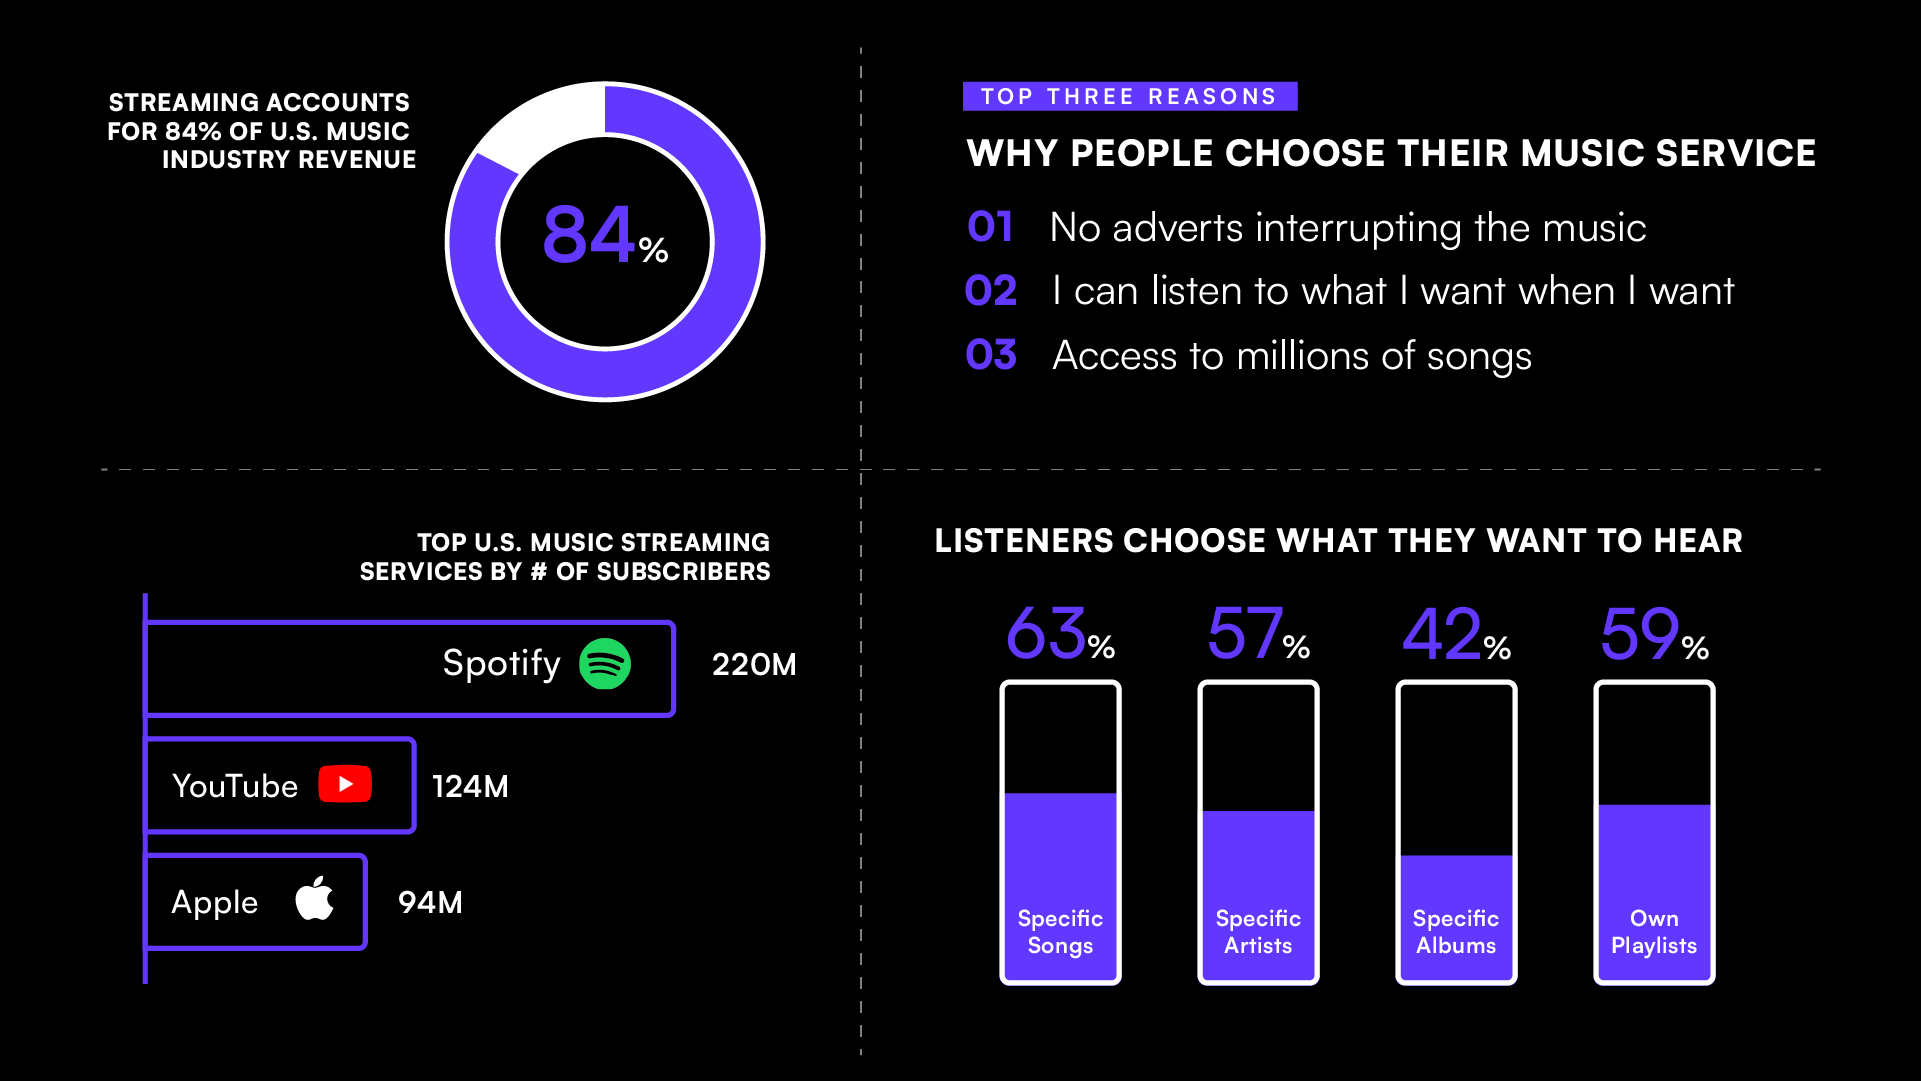
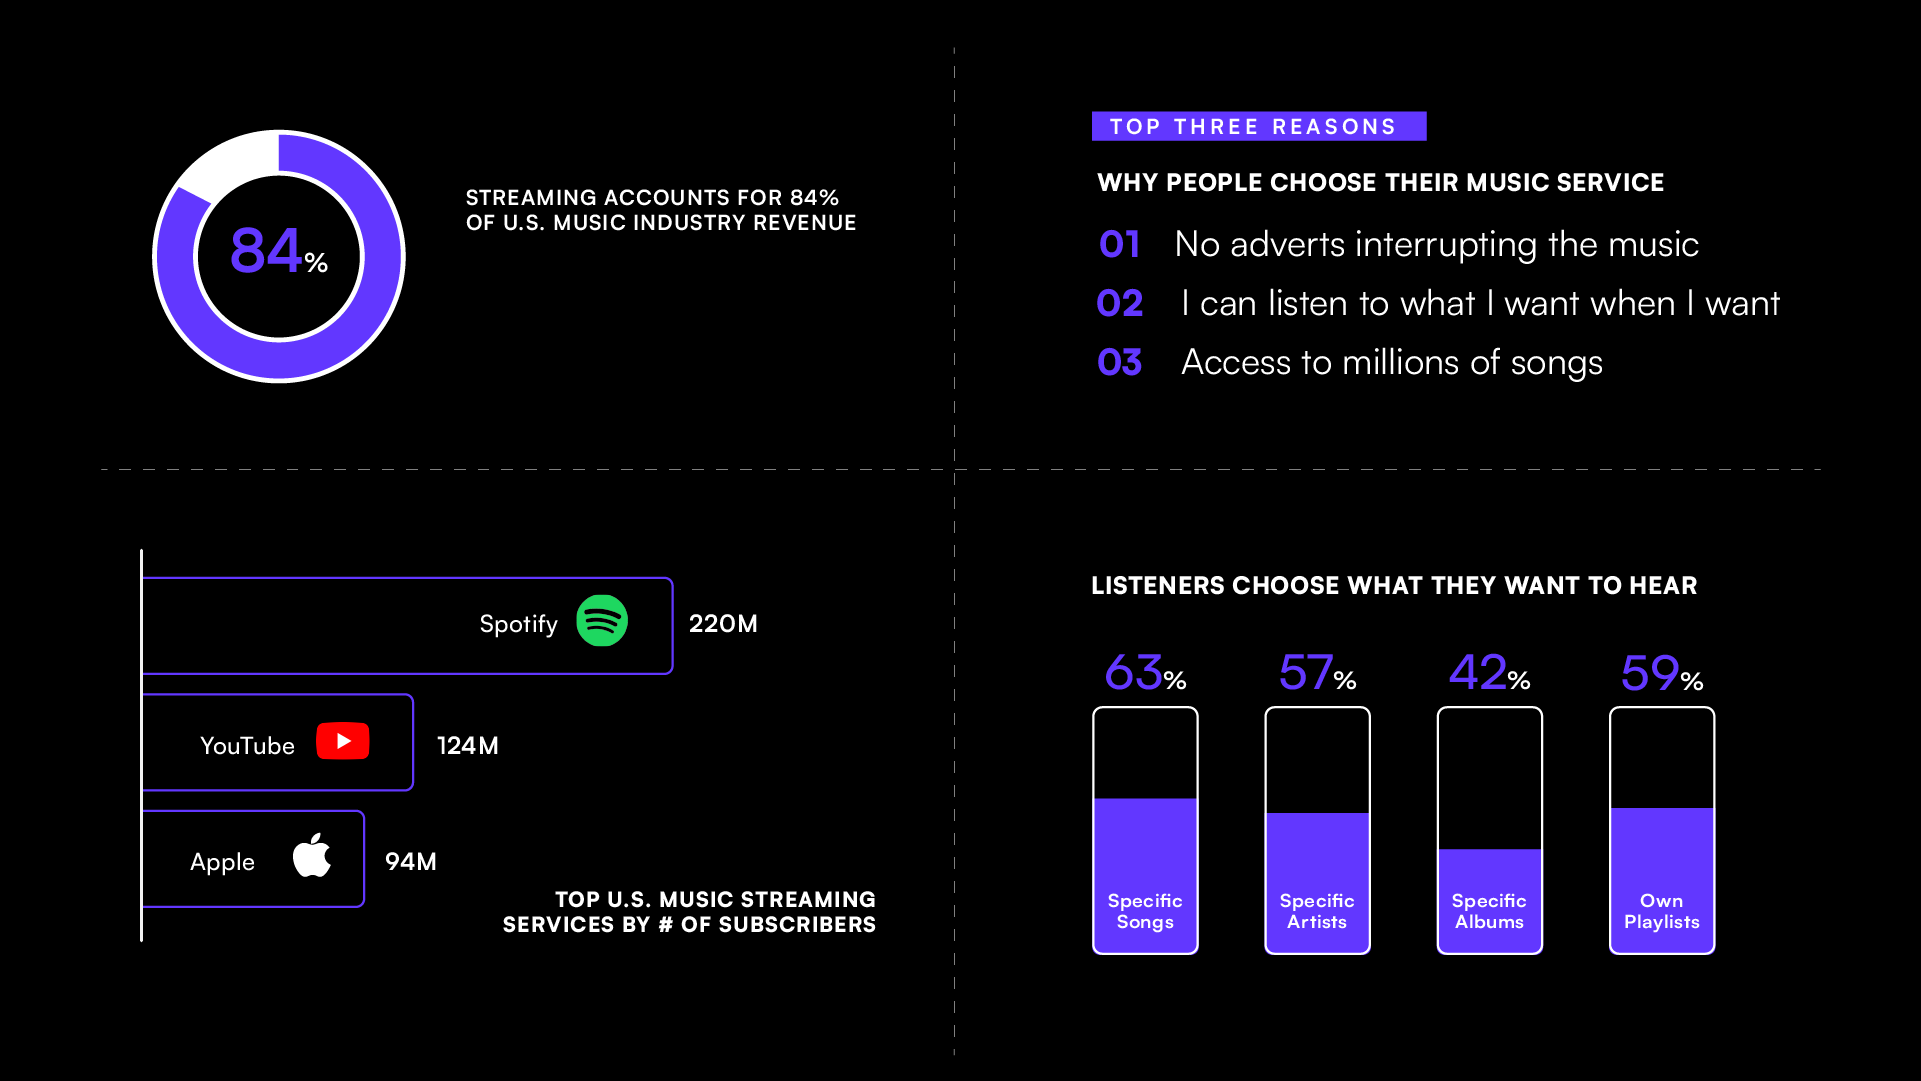
sticky scrolling effect added to home

diff --git a/src/components/StickyProject.jsx b/src/components/StickyProject.jsx
@@ -1,0 +1,221 @@
+/* eslint-disable no-unused-vars */
+/* eslint-disable react/prop-types */
+
+import { useState, useRef, useEffect } from 'react';
+import { Button } from '../components/Button';
+import { Image } from '../components/image';
+import {
+    ProjectSection,
+    ProjectSectionColumns,
+    ProjectSectionContent,
+    ProjectSectionHeading,
+    ProjectPageText,
+    ProjectTextRow,
+} from './Project-Layout.jsx';
+import { baseMeta, media } from '../lib/utils';
+
+// Background Imports
+import budBack from '../assets/budHeroBack_lg.png';
+import ultraBack from '../assets/ultraHeroBack_lg.png';
+import blsBack from '../assets/blsHeroBack_lg.png';
+import khBack from '../assets/khHeroBack_lg.png';
+import qBack from '../assets/qBackLarge.png';
+
+// Placeholder Imports
+import budImg from '../assets/bud/bud_king.png';
+import ultraImg from '../assets/mulBackground.png';
+import blsImg from '../assets/blsPlace.png';
+import khImg from '../assets/khBackground.png';
+
+// Video Imports
+import budVid from '../assets/bud/BeAKing-Teaser.mp4';
+import khVid from '../assets/khc/KHDR_Exp.mp4';
+import qVideo from '../assets/queue/Q_V2.mp4';
+
+const linkLabel = 'View Project';
+
+const heading = 'Featured Projects';
+const description =
+    'Five featured projects including: Queue Mobile App, Bud Light Seltzer, Kraft Heinz, Michelob Ultra and Budweiser.';
+
+export const meta = () => {
+    return baseMeta({ heading, description, prefix: 'Projects' });
+};
+
+const projects = [
+    {
+        key: 'queue',
+        title: 'Build the Vibe',
+        vid: qVideo,
+        placeholder: qBack,
+        imgBack: qBack,
+        url: '/queue',
+        projDesc: "Design an intuitive app that allows people in the same physical or virtual space to join a shared music queue, add tracks via their preferred streaming services, and vote on what plays next—making the listening experience social, fair, and dynamic.",
+        imgDesc: 'High fidelity wireframes leveraging the new design system.',
+        vidDesc: 'High fidelity wireframes leveraging the new design system.'
+    },
+    {
+        key: 'ultra',
+        title: 'Look of the Leader',
+        vid: '',
+        placeholder: ultraImg,
+        imgBack: ultraBack,
+        url: '/ultra',
+        projDesc: "As the national strategy was being finalized, ULTRA noticed opportunities to address issues involving their visuals and trade at a regional level that could unleash true potential of the brand.",
+        imgDesc: 'Fit experts on stage as panelists at Michelob Ultra FitFest',
+        vidDesc: 'Diverse group of young women in Michelob Ultra fitness apparel, sittin on a couch laughing and smiling.'
+    },
+    {
+        key: 'khdigital',
+        title: 'Digital Revolution',
+        vid: khVid,
+        placeholder: khImg,
+        imgBack: khBack,
+        url: '/kh-digital',
+        projDesc: "Serving 97% of households, Kraft Heinz began owning their position of defining the next era of food innovation. This thought process shifted the focus to developing an internal digital toolset to replace current platforms.",
+        imgDesc: 'Bottles of Kraft Heinz products arranged in a diagonal repeating pattern.',
+        vidDesc: 'Video of the letter "KH" transforming into the digital suite logo.'
+    },
+    {
+        key: 'blseltzer',
+        title: 'Bring Your Flavor',
+        vid: '',
+        placeholder: blsImg,
+        imgBack: blsBack,
+        url: '/blseltzer',
+        projDesc: "We all have a unique flavor that we bring to the world. It should be championed and unapologetic. Now more than ever, being yourself is encouraged. Every interaction needs some flavor. Why not bring yours?",
+        imgDesc: 'The core four flavors of Bud Light Seltzer among corresponding fruits.',
+        vidDesc: 'Four diverse young women smiling and holding unique flavors of Bud Light Seltzer'
+    },
+    {
+        key: 'budweiser',
+        title: 'Be a King',
+        vid: budVid,
+        placeholder: budImg,
+        imgBack: budBack,
+        url: '/bud-king',
+        projDesc: "Despite global success and widespread recognition, Budweiser had seen declining multicultural brand relevance and regional sales from its past leader Houston, TX. The brand's heritage messaging and national campaigns weren’t resonating locally.",
+        imgDesc: 'Large billboard on the side of a building with Budweiser "Be A King" imagery',
+        vidDesc: 'Houston Rapper Slim Thug performing at a local Budweiser event'
+    }
+]
+
+export const StickySection = ({ id, sectionRef, ...rest }) => {
+    const featureRefs = useRef([]);
+    const stickyContainer = useRef();
+    const [activeIndex, setActiveIndex] = useState(0);
+    const [height, setHeight] = useState(0);
+    const [scrollValue, setScrollValue] = useState(0);
+    const [scrollPercent, setScrollPercent] = useState(0);
+    const docHeight = document.body.scrollHeight;
+
+    const onScroll = () => {
+        handleSections();
+    }
+
+    const handleSections = () => {
+        const viewportTop = window.scrollY;
+
+        const elHeight = stickyContainer.current.clientHeight;
+        const elTop = stickyContainer.current.offsetTop;
+        const elBottom = elTop + elHeight;
+
+        setScrollPercent((height / (docHeight - elHeight)) * 100)
+
+        if (elBottom <= viewportTop) {
+            setScrollValue(projects.length + 1)
+        } else if (elTop >= viewportTop) {
+            setScrollValue(0)
+        } else {
+            setScrollValue(remapValue(viewportTop, elTop, elBottom, 0, projects.length + 1))
+        }
+
+        setActiveIndex(Math.floor(scrollValue) >= projects.length ? projects.length - 1 : Math.floor(scrollValue));
+
+        featureRefs.current.forEach((section, i) => {
+            if (i === activeIndex) {
+                section.style.setProperty('--stick-visibility', '1');
+                section.style.setProperty('--stick-scale', '1');
+            } else {
+                section.style.setProperty('--stick-visibility', '0');
+                section.style.setProperty('--stick-scale', '.8');
+            }
+        });
+    };
+
+    const remapValue = (val, start1, end1, start2, end2) => {
+        const remapped = (val - start1) * (end2 - start2) / (end1 - start1) + start2;
+        return remapped > 0 ? remapped : 0;
+    }
+
+    useEffect(() => {
+        window.addEventListener('scroll', onScroll, { passive: true });
+        return () => {
+            window.removeEventListener('scroll', onScroll)
+        }
+    });
+
+    return (
+        <div className=''
+            id={id}
+            ref={sectionRef}
+        >
+            <div ref={stickyContainer} className="max-w-screen mx-auto lg:max-w-none lg:min-h-[var(--stick-items)]" style={{ '--stick-items': `${projects.length + 1}00vh` }} data-sticky-sections >
+                <div className="lg:sticky lg:top-0 lg:h-screen space-y-16 lg:space-y-0">
+
+                    {projects.map((project, index) => (
+                        <div key={project.key} ref={(node) => { if (node) { featureRefs.current[index] = node } }} className="lg:absolute lg:inset-0 z-[var(--stick-visibility)]">
+                            <ProjectSection
+                                backgroundOverlayOpacity={0.9}
+                                backgroundElement={
+                                    <Image
+                                        srcSet={`${project.imgBack} 1280w, ${project.imgBack} 2560w`}
+                                        width={1280}
+                                        height={900}
+                                        placeholder={project.placeholder}
+                                        alt={project.imgDesc}
+                                        sizes="100vw"
+                                    />
+                                }
+                            >
+                                <ProjectSectionColumns width="full"
+                                    className="flex-1 flex items-center lg:opacity-[var(--stick-visibility)] transition-opacity duration-300 order-1 lg:order-none">
+                                    <ProjectSectionContent width="full">
+                                        <ProjectTextRow width="xs">
+                                            <ProjectSectionHeading>{project.title}</ProjectSectionHeading>
+                                            <ProjectPageText>
+                                                {project.projDesc}
+                                            </ProjectPageText>
+                                            <Button
+                                                secondary
+                                                iconHoverShift
+                                                className="linkButton"
+                                                icon="chevron-right"
+                                                href={location.pathname === '/' ? `./projects${project.url}` : `.${project.url}`}
+                                            >
+                                                {linkLabel}
+                                            </Button>
+                                        </ProjectTextRow>
+                                    </ProjectSectionContent>
+                                    <Image
+                                        raised
+                                        reveal
+                                        className="video"
+                                        srcSet={`${project.vid} 1280w`}
+                                        width={1280}
+                                        height={800}
+                                        placeholder={project.placeholder}
+                                        alt={project.vidDesc}
+                                        sizes={`(max-width: ${media.mobile}px) 100vw, 50vw`}
+                                        loading='lazy'
+                                    />
+                                </ProjectSectionColumns>
+                            </ProjectSection>
+                        </div>
+                    ))}
+
+                </div>
+            </div>
+        </div>
+    )
+}

diff --git a/src/App.jsx b/src/App.jsx
@@ -1,14 +1,8 @@
-import { BrowserRouter, HydratedRouter, Route, Routes, Scripts, ScrollRestoration } from "react-router-dom";
+import { BrowserRouter, Route, Routes } from "react-router-dom";
 // import { useState, useContext, createContext } from 'react';
 import { Home } from "./pages/Home";
 import { NotFound } from "./pages/NotFound";
 import { Toaster } from "@/components/ui/toaster";
-// import { Projects } from "./pages/Projects";
-// import { Ultra } from "./components/Ultra";
-// import { BLSeltzer } from "./components/Seltzer";
-// import { MULProject } from "./components/MUL";
-// import { KHCProject } from "./components/KHC";
-// import { BUDProject } from "./components/BUD";
 import { BLSUpdate } from "./components/BLSUpdate";
 
 import { BUDUpdate } from "./components/BUDUpdate";
@@ -16,11 +10,12 @@ import { UltraUpdate } from "./components/UltraUpdate";
 import { KHUpdate } from "./components/KHCUpdate";
 import { ProjectsUpdate } from "./components/FeaturedUpdate";
 import { ContactUpdate } from "./components/ContactUpdate";
-// import { NavUpdate } from "./components/Nav/NavUpdate";
+
 import { ThemeToggle } from "./components/ThemeToggle";
 import { NavUpdate } from "./components/Nav/NavUpdate";
 import { Queue } from "./components/Queue";
-// import { ThemeToggleUpdate } from "./components/ThemeToggleUpdate";
+import { StickySection } from "./components/StickyProject";
+
 
 
 function App() {
@@ -37,13 +32,12 @@ function App() {
           <Route path="/" element={<Home />} />
           <Route path="/#projects" element={<ProjectsUpdate />} />
           <Route path="/connect" element={<ContactUpdate />} />
-          {/* <Route path="/projects" element={<Projects />} /> */}
           <Route path="/projects/ultra-leader" element={<UltraUpdate />} />
           <Route path="/projects/kh-digital" element={<KHUpdate />} />
           <Route path="/projects/bls-flavor" element={<BLSUpdate />} />
           <Route path="/projects/bud-king" element={<BUDUpdate />} />
           <Route path="/projects/queue" element={<Queue />} />
-          {/* <Route path="/projects/testing" element={<Queue />} /> */}
+          <Route path="/testing" element={<StickySection />} />
           <Route path="*" element={<NotFound />} />
         </Routes>
       </BrowserRouter>

diff --git a/src/components/StickySection.jsx b/src/components/StickySection.jsx
@@ -6,6 +6,7 @@ import budBack from '../assets/budBack_update.png';
 import ultraBack from '../assets/ultraBack_update.png';
 import blsBack from '../assets/blsBack_update.png';
 import khBack from '../assets/khBack_update.png';
+import qBack from '../assets/qBackLarge.png';
 
 // Placeholder Imports
 import budImg from '../assets/bud/bud_king.png';
@@ -16,6 +17,7 @@ import khImg from '../assets/khBackground.png';
 // Video Imports
 import budVid from '../assets/bud/BeAKing-Teaser.mp4';
 import khVid from '../assets/khc/KHDR_Exp.mp4';
+import qVid from '../assets/queue/Q_V2.mp4';
 import { ProjectsUpdate } from './FeaturedUpdate';
 
 // const sections = [
@@ -26,6 +28,17 @@ import { ProjectsUpdate } from './FeaturedUpdate';
 // ]
 
 const projects = [
+    {
+        key: 'queue',
+        title: 'Build the Vibe',
+        vid: qVid,
+        placeholder: qBack,
+        imgBack: qBack,
+        url: '/queue',
+        projDesc: "Design an intuitive app that allows people in the same physical or virtual space to join a shared music queue, add tracks via their preferred streaming services, and vote on what plays next—making the listening experience social, fair, and dynamic.",
+        imgDesc: 'High fidelity wireframes leveraging the new design system.',
+        vidDesc: 'High fidelity wireframes leveraging the new design system.'
+    },
     {
         key: 'ultra',
         title: 'Look of the Leader',

diff --git a/src/pages/Home.jsx b/src/pages/Home.jsx
@@ -6,7 +6,7 @@ import { NavUpdate } from '../components/Nav/NavUpdate';
 import { ProfileUpdate } from '../components/AboutUpdate';
 import { FooterUpdate } from '../components/FooterUpdate';
 
-import { ProjectsUpdate } from '../components/FeaturedUpdate';
+import { StickySection } from '../components/StickyProject';
 
 
 export const Home = () => {
@@ -64,7 +64,7 @@ export const Home = () => {
           sectionRef={intro}
           scrollIndicatorHidden={scrollIndicatorHidden}
         />
-        <ProjectsUpdate
+        <StickySection
           id="projects"
           sectionRef={projects}
           visible={visibleSections.includes(projects.current)}

diff --git a/src/components/FeaturedUpdate.jsx b/src/components/FeaturedUpdate.jsx
@@ -31,14 +31,13 @@ import qHeader from '../assets/queue/Intro_q.png';
 // Video Imports
 import budVid from '../assets/bud/BeAKing-Teaser.mp4';
 import khVid from '../assets/khc/KHDR_Exp.mp4';
-
 import qVideo from '../assets/queue/Q_V2.mp4';
 
 const linkLabel = 'View Project';
 
 const heading = 'Featured Projects';
 const description =
-    'Four featured projects including: Bud Light Seltzer, Kraft Heinz, Michelob Ultra and Budweiser.';
+    'Five featured projects including: Queue Mobile App, Bud Light Seltzer, Kraft Heinz, Michelob Ultra and Budweiser.';
 
 export const meta = () => {
     return baseMeta({ heading, description, prefix: 'Projects' });
